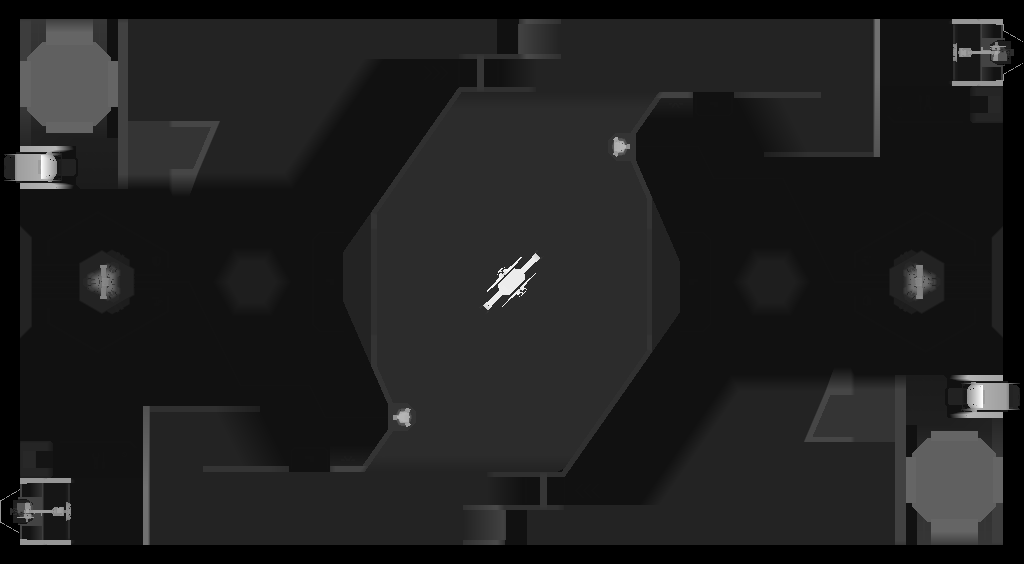
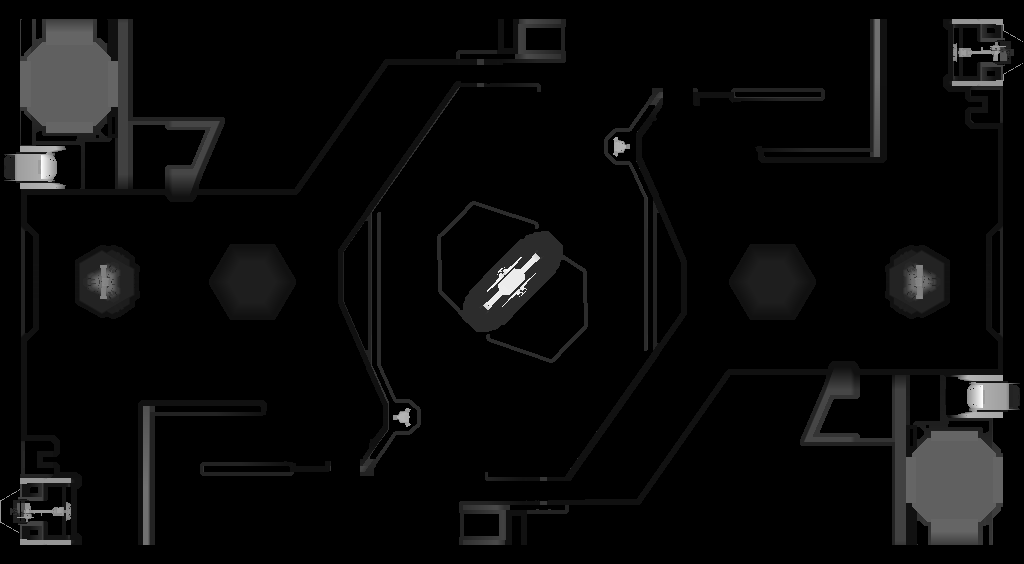
Clear Nav2 free space in RMUC hfield

diff --git a/ats_mujoco_sim/rmuc_hfield.py b/ats_mujoco_sim/rmuc_hfield.py
@@ -124,6 +124,16 @@ def _load_map_metadata(map_yaml: Path) -> tuple[int, int, float, tuple[float, fl
     return width, height, float(metadata["resolution"]), (float(origin[0]), float(origin[1]))
 
 
+def _load_map_image(map_yaml: Path) -> np.ndarray:
+    with map_yaml.open("r", encoding="utf-8") as yaml_file:
+        metadata = yaml.safe_load(yaml_file)
+
+    image_path = Path(metadata["image"])
+    if not image_path.is_absolute():
+        image_path = map_yaml.parent / image_path
+    return np.asarray(Image.open(image_path).convert("L"))
+
+
 def _rasterize_triangle(
     hfield: np.ndarray,
     px: np.ndarray,
@@ -170,8 +180,14 @@ def generate_hfield(
     ground_percentile: float,
     orientation: str,
     robot_clearance_height: float,
+    clear_nav_free_space: bool,
 ) -> float:
     width, height, resolution, origin = _load_map_metadata(map_yaml)
+    nav_map = _load_map_image(map_yaml)
+    if nav_map.shape != (height, width):
+        raise RuntimeError(
+            f"Map image shape {nav_map.shape} does not match YAML size {(height, width)}"
+        )
     vertices, faces = _read_mesh(mesh_path)
 
     # Keep the hfield centered exactly like the MuJoCo XML. The YAML origin is
@@ -213,6 +229,16 @@ def generate_hfield(
     elif orientation != "normal":
         raise ValueError(f"Unsupported orientation: {orientation}")
 
+    cleared_free_cells = 0
+    if clear_nav_free_space:
+        # The STL may contain overhead beams or side faces that a single-valued
+        # MuJoCo hfield would project down into passable tunnels. The final Nav2
+        # PGM is the authoritative 2D traversability mask, so keep STL height
+        # only on occupied / boundary cells and flatten white free space.
+        free_mask = nav_map >= 200
+        cleared_free_cells = int(np.count_nonzero((image > 0) & free_mask))
+        image[free_mask] = 0
+
     output_path.parent.mkdir(parents=True, exist_ok=True)
     Image.fromarray(image, mode="L").save(output_path)
 
@@ -225,6 +251,8 @@ def generate_hfield(
     print(f"Z scale: {z_scale:.6f}")
     print(f"Robot clearance height: {robot_clearance_height:.6f} m")
     print(f"Skipped overhead faces: {skipped_overhead_faces}")
+    print(f"Clear Nav2 free space: {clear_nav_free_space}")
+    print(f"Cleared free hfield cells: {cleared_free_cells}")
     print(f"Orientation: {orientation}")
     print(f"MuJoCo hfield elevation: {elevation:.6f}")
     return elevation
@@ -253,6 +281,11 @@ def main() -> None:
         ),
     )
     parser.add_argument(
+        "--no-clear-nav-free-space",
+        action="store_true",
+        help="Keep raw STL heights in white/free PGM cells.",
+    )
+    parser.add_argument(
         "--orientation",
         choices=ORIENTATIONS,
         default=DEFAULT_ORIENTATION,
@@ -269,6 +302,7 @@ def main() -> None:
         ground_percentile=args.ground_percentile,
         orientation=args.orientation,
         robot_clearance_height=args.robot_clearance_height,
+        clear_nav_free_space=not args.no_clear_nav_free_space,
     )
 
 
